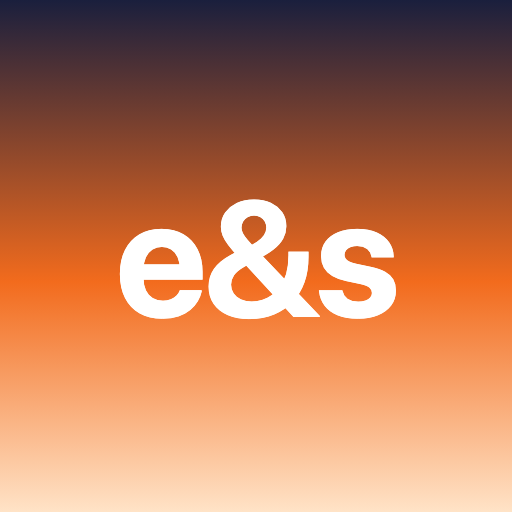
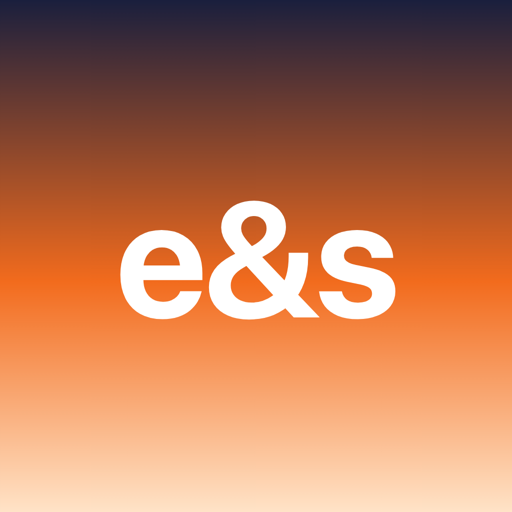
Значок: маленькие размеры уменьшены из 1024, а не сняты отдельно
Chrome без окна не делает окно уже ~500px: для 180 и 192 он рисовал широкую страницу
и вырезал угол — на iPhone вышла огромная «e» со сдвигом вправо. Теперь 180/192/512
уменьшены sips из правильного 1024; ссылка на apple-touch-icon с ?v=2, чтобы iPhone
не взял кривую картинку из кэша.

diff --git a/index.html b/index.html
@@ -9,7 +9,7 @@
     <!-- цвет полосы над страницей — как фон приложения; ручной выбор темы правит его из Shell -->
     <meta name="theme-color" media="(prefers-color-scheme: light)" content="#F2F2F7" />
     <meta name="theme-color" media="(prefers-color-scheme: dark)" content="#000000" />
-    <link rel="apple-touch-icon" href="apple-touch-icon.png" />
+    <link rel="apple-touch-icon" href="apple-touch-icon.png?v=2" />
     <link rel="icon" type="image/svg+xml" href="icon.svg" />
     <title>edim & spim</title>
   </head>
